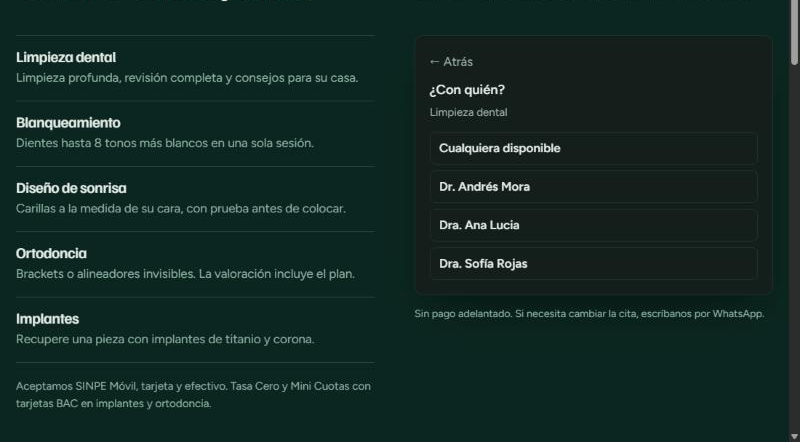
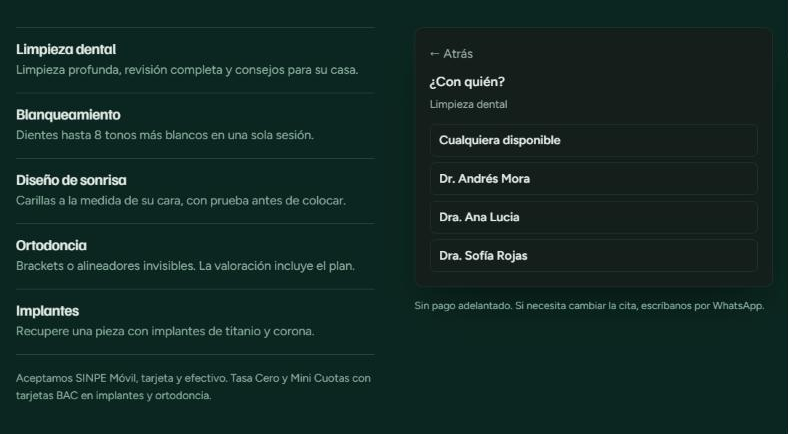
Mobile project cards, current skills and cleaner project images
- Mobile: each project (image, text, icons and its button) sits in its
  own bordered card so it is clear where one ends and the next starts
- Skills: the stack the projects actually use (Svelte, three.js,
  PostgreSQL, Supabase, Cloudflare, Claude Code); border colors follow
  each icon instead of its position; icons sized for mobile
- NewCode CR card uses the site's home page; browser scrollbar cropped
  off the NewCode CR and Citas images

diff --git a/src/components/MobileProjects.js b/src/components/MobileProjects.js
@@ -13,7 +13,7 @@ import sql_servericon from '../icons/sql_servericon.png';
 const MobileProjects = ({ language }) => {
   return (
     <div className='mobile-projects'>
-      <div className="mobile-proyect">
+      <div className="mobile-proyect mobile-card">
         <h2>{language === 'en' ? 'Forex ML Validation Lab' : 'Laboratorio Forex ML'}</h2>
         <img src={forex} alt="Forex ML Validation Lab results" className='mobile-img' />
         <div className="mobile-proyect-info">
@@ -25,11 +25,11 @@ const MobileProjects = ({ language }) => {
           <img src="https://cdn.simpleicons.org/streamlit/FF4B4B" alt="Streamlit" title="Streamlit" className='icono' />
           </div>
         </div>
-      </div>
       <a href="https://github.com/BrayanSO/Porfolio/blob/main/writing/01-case-study-trading-strategies.md" target="_blank" rel="noopener noreferrer" className="demo-link">
       {language === 'en' ? 'Case study ↗' : 'Caso de estudio ↗'}</a>
+      </div>
 
-      <div className="mobile-proyect2">
+      <div className="mobile-proyect2 mobile-card">
         <h2>Autos360</h2>
         <Autos360Media language={language} className='mobile-img' />
         <div className="mobile-proyect-info">
@@ -43,12 +43,12 @@ const MobileProjects = ({ language }) => {
           <img src="https://cdn.simpleicons.org/anthropic/FFFFFF" alt="Claude Code" title="Claude Code" className='icono' />
           </div>
         </div>
-      </div>
       <a href="https://autos360.autos360.workers.dev/autos360/#auto/ca232863" target="_blank" rel="noopener noreferrer" className="demo-link">
       {language === 'en' ? 'Live demo ↗' : 'Ver demo ↗'}</a>
+      </div>
 
 
-      <div className="mobile-proyect2">
+      <div className="mobile-proyect2 mobile-card">
         <h2>Citas</h2>
         <img src={citas} alt="Citas booking widget inside the Sonríe dental demo" className='mobile-img' />
         <div className="mobile-proyect-info">
@@ -62,13 +62,13 @@ const MobileProjects = ({ language }) => {
           <img src="https://cdn.simpleicons.org/anthropic/FFFFFF" alt="Claude Code" title="Claude Code" className='icono' />
           </div>
         </div>
-      </div>
       <a href="https://dental.newcodecr.com/#agenda" target="_blank" rel="noopener noreferrer" className="demo-link">
       {language === 'en' ? 'Live demo ↗' : 'Ver demo ↗'}</a>
+      </div>
 
-      <div className="mobile-proyect2">
+      <div className="mobile-proyect2 mobile-card">
         <h2>NewCode CR</h2>
-        <img src={newcode} alt="newcodecr.com live examples section" className='mobile-img' />
+        <img src={newcode} alt="newcodecr.com home page" className='mobile-img' />
         <div className="mobile-proyect-info">
           <p>{language === 'en' ? "My web studio: newcodecr.com on Cloudflare Workers with a test environment, live demo businesses on their own subdomains and real client sites." : "Mi estudio web: newcodecr.com en Cloudflare Workers con entorno de pruebas, negocios de demostración en vivo con subdominio propio y sitios de clientes reales."}</p>
           <div className="technologies">
@@ -79,9 +79,9 @@ const MobileProjects = ({ language }) => {
           <img src="https://cdn.simpleicons.org/anthropic/FFFFFF" alt="Claude Code" title="Claude Code" className='icono' />
           </div>
         </div>
-      </div>
       <a href="https://newcodecr.com" target="_blank" rel="noopener noreferrer" className="demo-link">
       {language === 'en' ? 'Visit site ↗' : 'Ver sitio ↗'}</a>
+      </div>
 
     </div>
   );

diff --git a/src/components/Skills.js b/src/components/Skills.js
@@ -1,51 +1,39 @@
 import React from 'react';
-import { FontAwesomeIcon } from '@fortawesome/react-fontawesome';
-import { faDatabase } from '@fortawesome/free-solid-svg-icons';
-import { 
-  faHtml5, 
-  faCss3Alt, 
-  faJs, 
-  faReact, 
-  faPython, 
-  faNode, 
-  faGit, 
-  faBootstrap, 
-  faCloudflare,
-
-} from '@fortawesome/free-brands-svg-icons';
 import '../Styles/Skills.css';
 
+// Lo que se usa en los proyectos del portfolio (Autos360, Citas, NewCode CR, Forex ML); íconos de simpleicons como en Skills2
 const skillsData = [
-  { icon: faHtml5, label: "HTML5", color: "#E44D26" },
-  { icon: faCss3Alt, label: "CSS3", color: "#264DE4" },
-  { icon: faJs, label: "JavaScript", color: "#F7DF1E" },
-  { icon: faReact, label: "React", color: "#61DAFB" },
-  { icon: faPython, label: "Python", color: "#3776AB" },
-  { icon: faNode, label: "Node.js", color: "#68A063" },
-  { icon: faGit, label: "Git", color: "#F05032" },
-  { icon: faBootstrap, label: "Bootstrap", color: "#563D7C" },
-  { icon: faDatabase, label: "SQL", color: "#336791" }, // Icono para SQL
-  { icon: faCloudflare, label: "Cloudflare", color: "#F38020" },
-
-  
+  { slug: "html5", hex: "E34F26", label: "HTML5" },
+  { slug: "css", hex: "1572B6", label: "CSS" },
+  { slug: "javascript", hex: "F7DF1E", label: "JavaScript" },
+  { slug: "react", hex: "61DAFB", label: "React" },
+  { slug: "svelte", hex: "FF3E00", label: "Svelte" },
+  { slug: "threedotjs", hex: "FFFFFF", label: "three.js" },
+  { slug: "nodedotjs", hex: "5FA04E", label: "Node.js" },
+  { slug: "python", hex: "3776AB", label: "Python" },
+  { slug: "postgresql", hex: "4169E1", label: "PostgreSQL" },
+  { slug: "supabase", hex: "3FCF8E", label: "Supabase" },
+  { slug: "cloudflare", hex: "F38020", label: "Cloudflare" },
+  { slug: "git", hex: "F05032", label: "Git" },
+  { slug: "anthropic", hex: "FFFFFF", label: "Claude Code" },
 ];
 
 const Skills = () => {
   return (
-    <div className="portfolio"> 
+    <div className="portfolio">
      <h2 className='title2'>Web Development</h2>
-      {skillsData.map((skill, index) => (
-        <Skill key={index} icon={skill.icon} label={skill.label} color={skill.color} />
+      {skillsData.map((skill) => (
+        <Skill key={skill.label} {...skill} />
       ))}
-      
+
     </div>
   );
 };
 
-const Skill = ({ icon, label, color }) => {
+const Skill = ({ slug, hex, label }) => {
   return (
-    <div className="skill" style={{ color }}>
-      <FontAwesomeIcon icon={icon} size="5x" />
+    <div className="skill" style={{ color: `#${hex}`, borderColor: `#${hex}` }}>
+      <img src={`https://cdn.simpleicons.org/${slug}/${hex}`} alt={label} width={80} height={80} />
       <span>{label}</span>
     </div>
   );

diff --git a/src/Styles/Skills.css b/src/Styles/Skills.css
@@ -73,51 +73,6 @@
 
 /* Agregamos bordes de colores correspondientes a los iconos */
 
-.skill:nth-child(1) {
-  border: 2px solid #111111; 
-}
-
-.skill:nth-child(2) {
-  border: 2px solid #F05032; /* HTML5 */
-}
-
-.skill:nth-child(3) {
-  border: 2px solid #190ae4;   /* CSS3 */
-}
-
-.skill:nth-child(4) {
-  border: 2px solid #c5c332; /* JavaScript */
-}
-
-.skill:nth-child(5) {
-  border: 2px solid #61DAFB; /* React */
-}
-
-.skill:nth-child(6) {
-  border: 2px solid #3776AB; /* Python */
-}
-
-.skill:nth-child(7) {
-  border: 2px solid #68A063; /* Node.js */  
-}
-
-.skill:nth-child(8) {
-  border: 2px solid #F05032; /* Git */
-}
-
-.skill:nth-child(9) {
-  border: 2px solid #563D7C; /* Bootstrap */
-}
-
-.skill:nth-child(10) {
-  border: 2px solid #21759B;  /*SQL */
-}
-
-.skill:nth-child(11) {
-  border: 2px solid #21759B; /* WordPress */
-}
-
-
 .skill span {
   font-size: 14px;
   text-align: center;
@@ -140,7 +95,8 @@
     height: 90px;
   }
   
-  .skill svg {
+  .skill svg,
+  .skill img {
     width: 45px !important;
     height: 45px !important;
   }

diff --git a/src/Styles/Layout.css b/src/Styles/Layout.css
@@ -384,3 +384,28 @@ body,
     max-height: 30vh;
   }
 }
+
+/* Móvil: cada proyecto en su tarjeta (imagen, texto, íconos y botones juntos) para que se vea dónde empieza y termina */
+@media screen and (max-width: 768px) {
+  .mobile-card {
+    box-sizing: border-box;
+    margin: 0 0 28px !important;
+    padding: 16px 0 20px;
+    border: 1px solid rgba(240, 173, 78, 0.35);
+    border-radius: 16px;
+    background: rgba(255, 255, 255, 0.03);
+    box-shadow: 0 0 18px rgba(240, 173, 78, 0.08);
+    text-align: center;
+  }
+  .mobile-card .mobile-img,
+  .mobile-card .media3d {
+    width: calc(100% - 32px);
+    margin: 0 16px;
+  }
+  .mobile-card .mobile-proyect-info {
+    margin-top: 8px;
+  }
+  .mobile-card .demo-link {
+    margin: 4px 6px 0;
+  }
+}

diff --git a/src/components/Projects.js b/src/components/Projects.js
@@ -122,7 +122,7 @@ const Projects = ({ language }) => {
               {language === 'en' ? 'Visit site ↗' : 'Ver sitio ↗'}
             </a>
           </div>
-          <img src={newcode} alt="newcodecr.com live examples section" className='img1' />
+          <img src={newcode} alt="newcodecr.com home page" className='img1' />
         </div>
 
       </Carousel>
